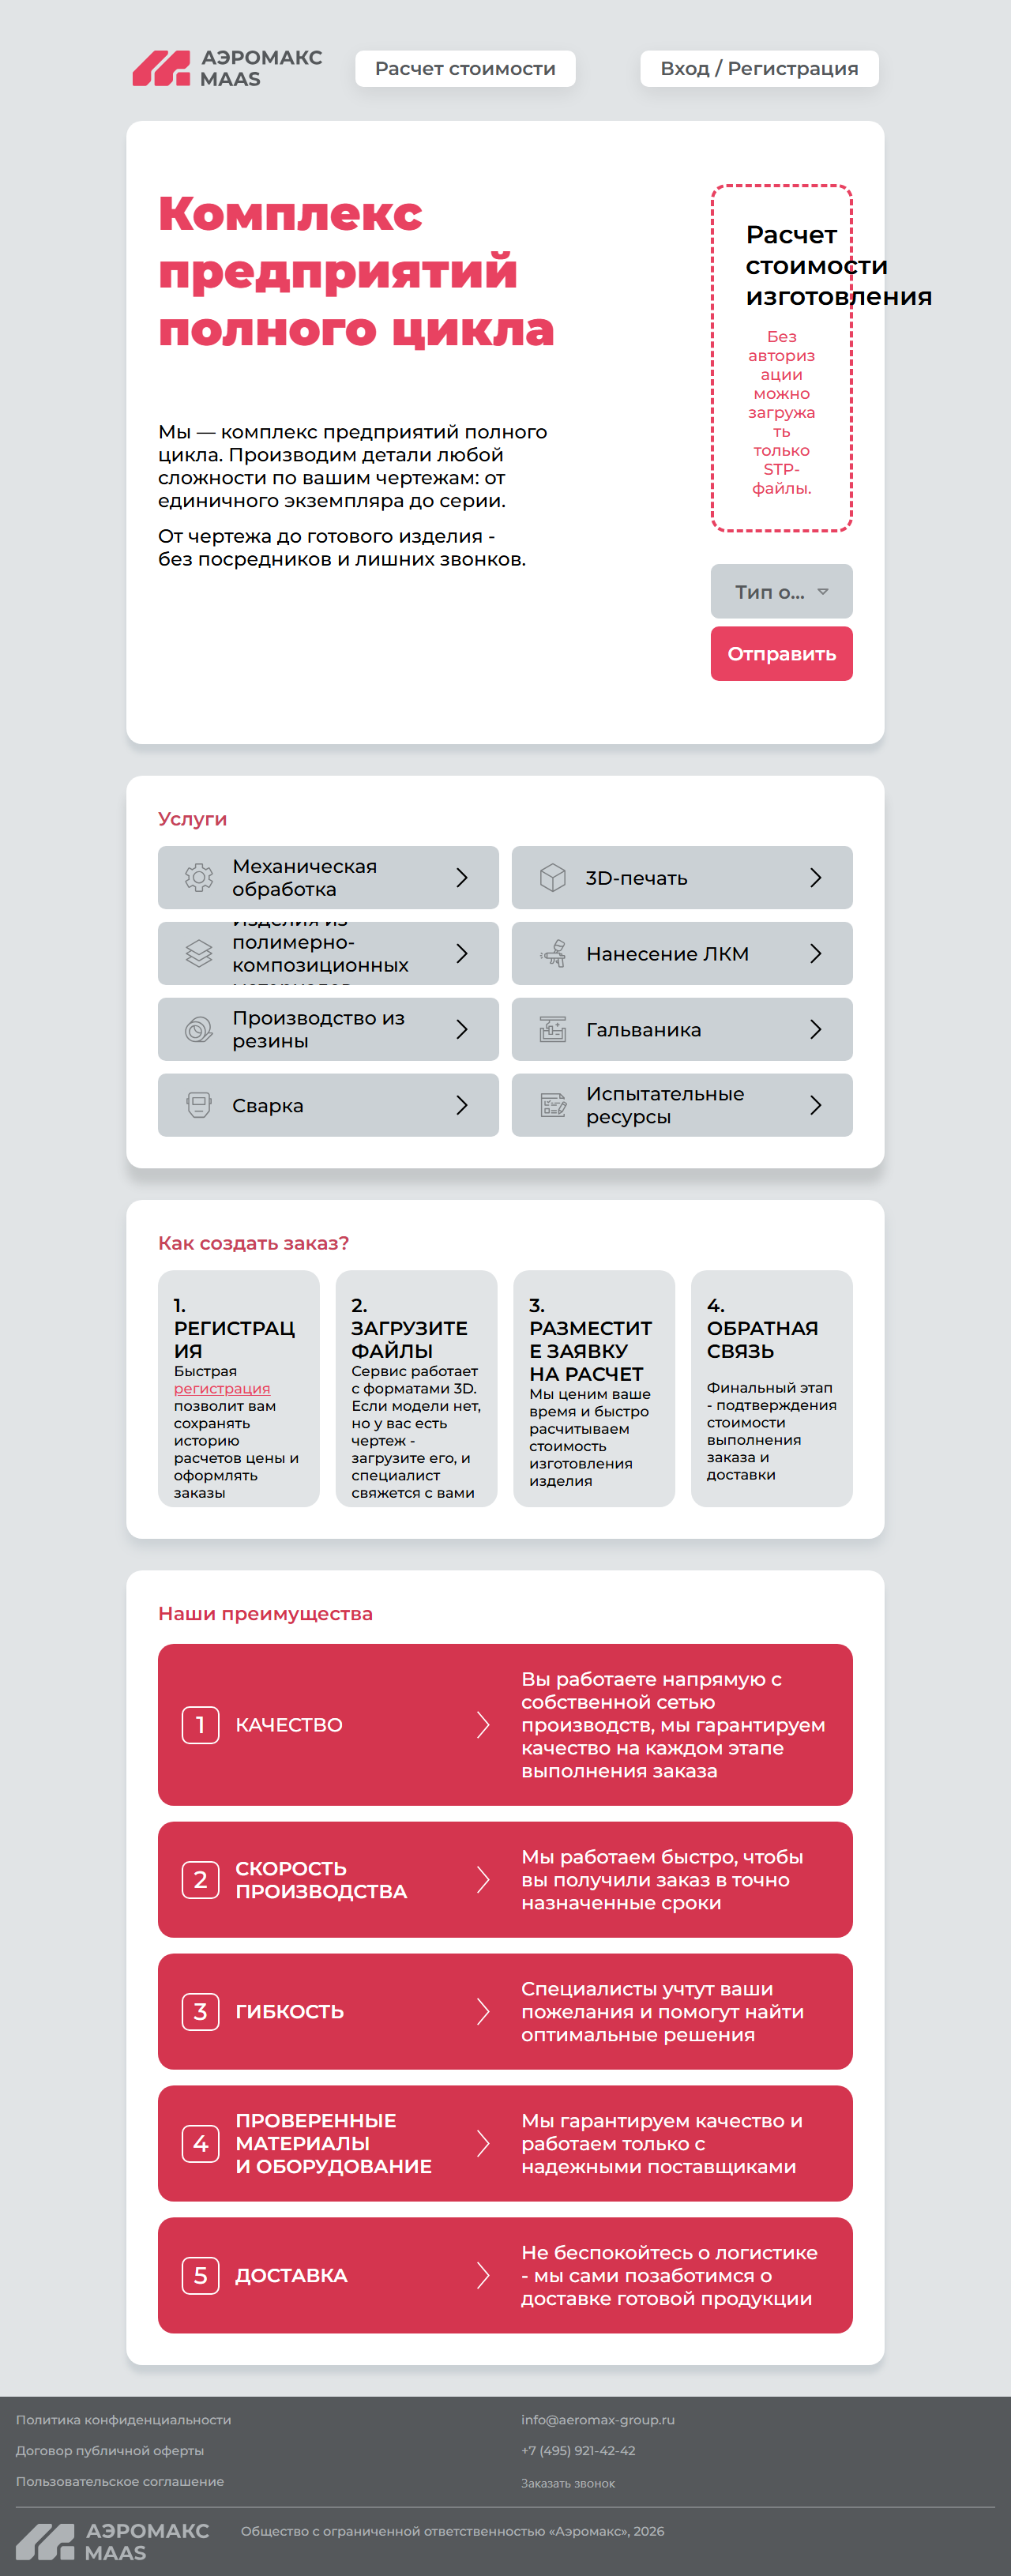
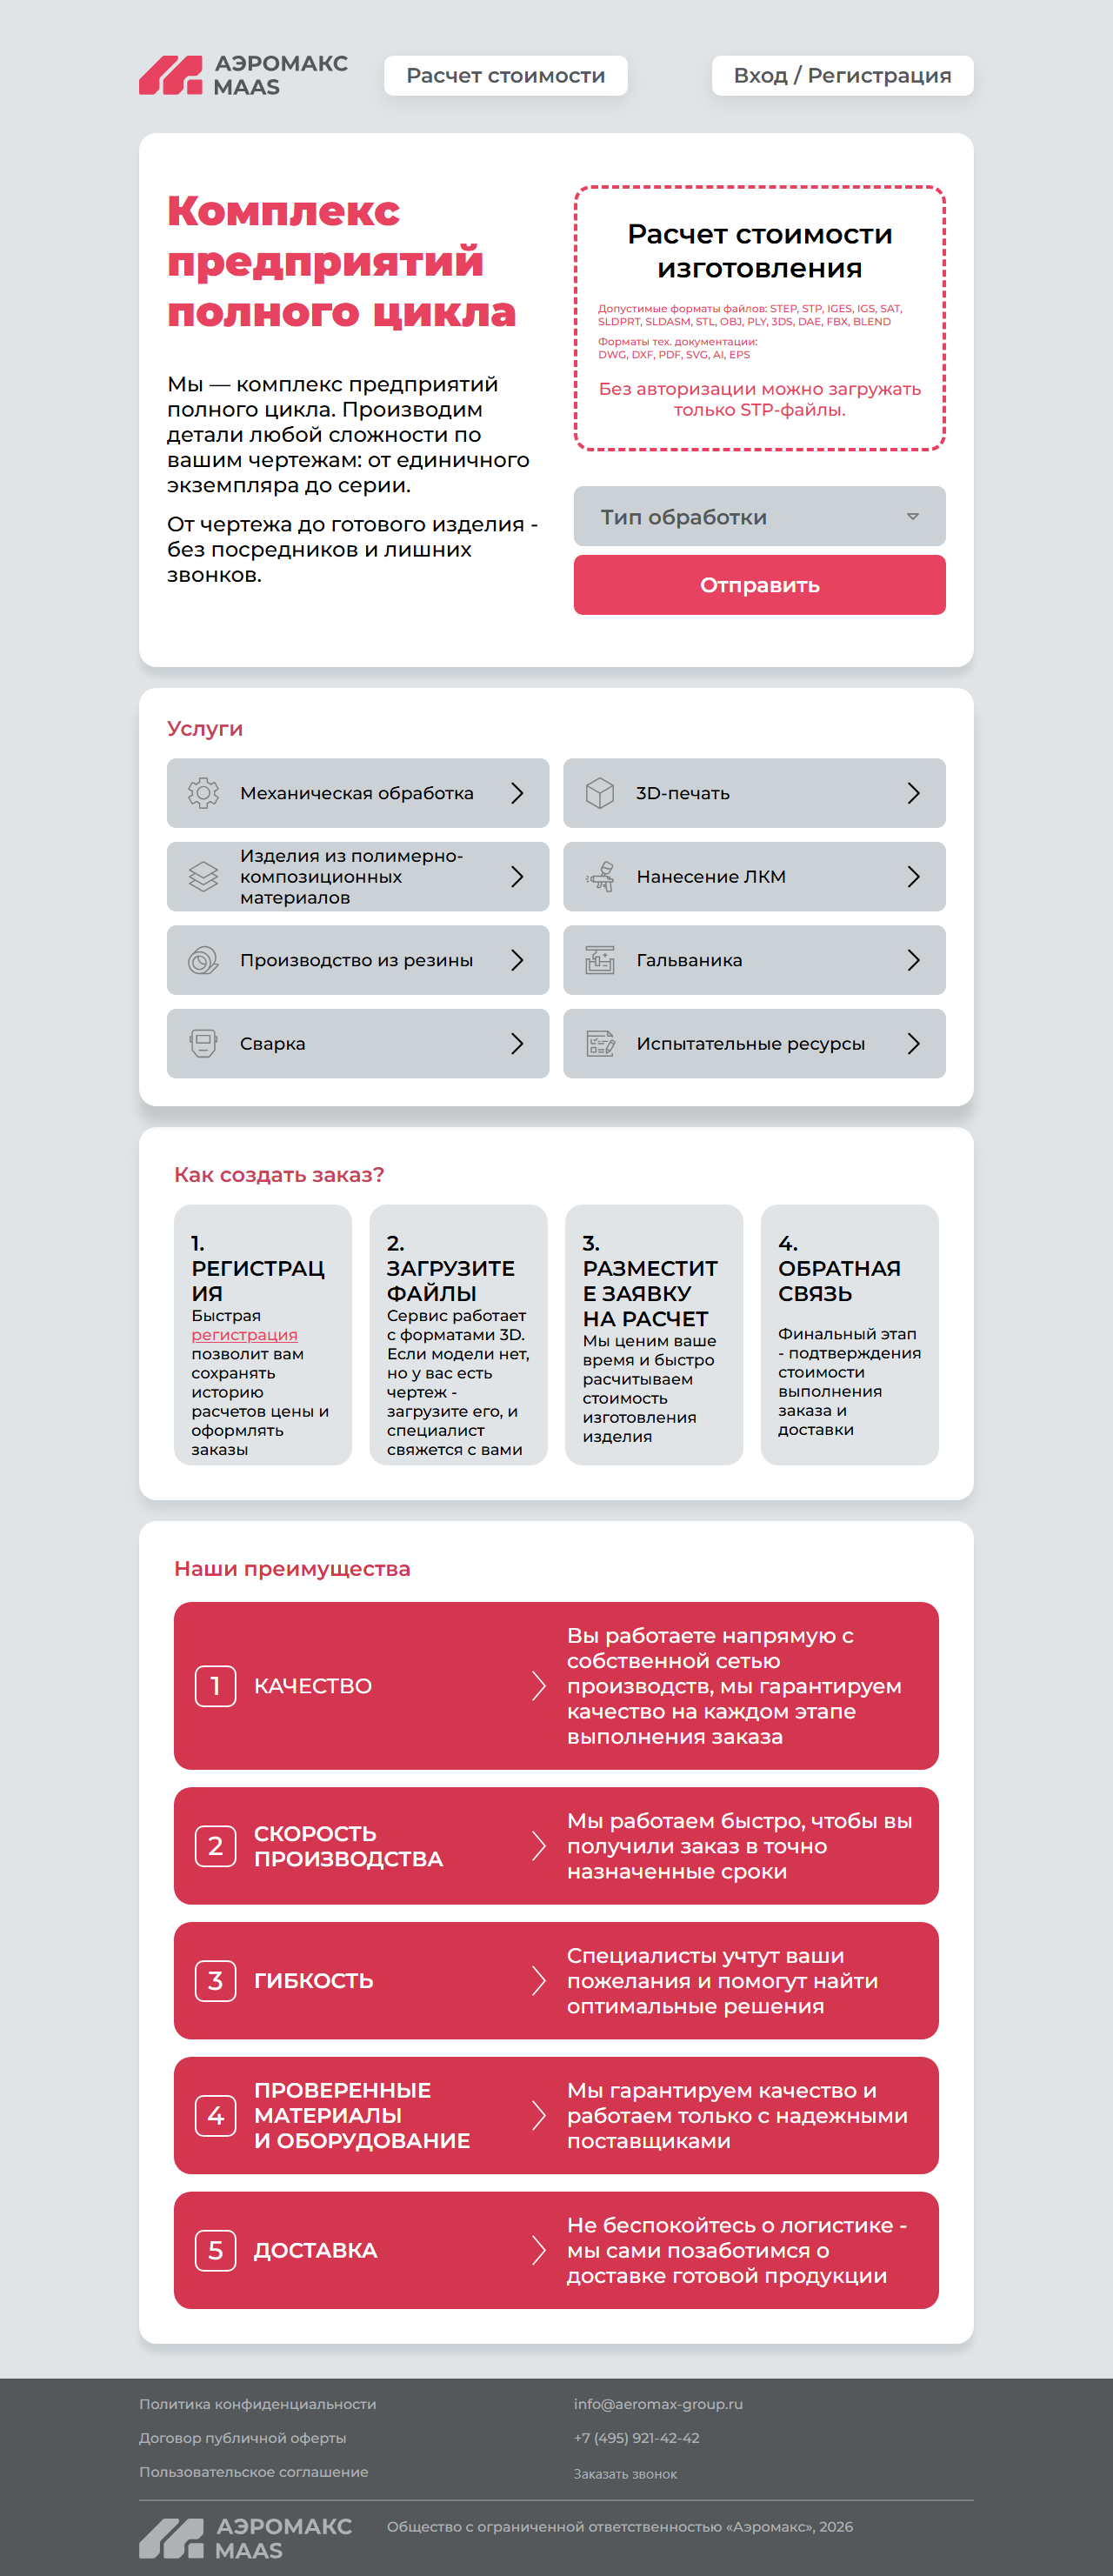
Update build-info.json and enhance responsiveness in Home components
- Updated buildDate to "2026-06-26T11:34:01.613Z" and gitHash to "ac23a50" for accurate version tracking.
- Added media queries in HomeAdvantages.vue, HomeCalc.vue, HomeUslugi.vue, and HomePage.vue to improve layout and spacing for tablet screens (769px to 1620px).
- Adjusted CSS styles to ensure better visual organization and usability across different screen sizes.

These changes enhance versioning accuracy and improve the user experience on tablet devices.

Changed region(s): [[0.0, 0.0, 1.0, 0.9939]]

diff --git a/src/components/sections/HomeCalc.vue b/src/components/sections/HomeCalc.vue
@@ -421,6 +421,45 @@ const submit = () => {
   transform: rotate(45deg);
 }
 
+@media (max-width: 1620px) and (min-width: 769px) {
+  .calc-section.section-basic {
+    padding: 60px 32px;
+  }
+
+  .calc-wrap {
+    gap: 40px;
+  }
+
+  .calc-left {
+    flex: 1 1 0;
+    min-width: 0;
+    max-width: none;
+    gap: 40px;
+  }
+
+  .calc-title {
+    max-width: none;
+    font-size: 48px;
+  }
+
+  .calc-description {
+    max-width: none;
+  }
+
+  .calc-formats {
+    display: flex;
+    flex-direction: column;
+    gap: 8px;
+    align-items: flex-start;
+    width: 100%;
+    text-align: left;
+  }
+
+  .calc-upload-zone {
+    padding: 32px 24px;
+  }
+}
+
 @media (max-width: 768px) {
   .calc-section.section-basic {
     margin-bottom: 0;

diff --git a/src/components/sections/HomeAdvantages.vue b/src/components/sections/HomeAdvantages.vue
@@ -339,6 +339,26 @@ const advantages = ref([
 
 
 
+@media (max-width: 1620px) and (min-width: 769px) {
+
+  .item-row {
+
+    gap: 24px;
+
+  }
+
+
+
+  .item {
+
+    padding: 24px;
+
+  }
+
+}
+
+
+
 @media (max-width: 767px) {
 
   .home-advantages {

diff --git a/src/components/sections/HomeUslugi.vue b/src/components/sections/HomeUslugi.vue
@@ -221,6 +221,22 @@ const isCardRouterLink = (ability: (typeof abilities.value)[number]) => Boolean(
   display: block;
 }
 
+@media (max-width: 1620px) and (min-width: 769px) {
+  .uslugi-section2.section-basic {
+    margin-top: 0;
+    margin-bottom: 40px;
+    padding: 32px;
+  }
+
+  .card-link {
+    padding: 0 20px;
+  }
+
+  .card-title {
+    font-size: 20px;
+  }
+}
+
 @media (max-width: 768px) {
   .uslugi-section2.section-basic {
     margin-top: 0;

diff --git a/src/pages/HomePage.vue b/src/pages/HomePage.vue
@@ -13,6 +13,7 @@ const HomeMilestones = defineAsyncComponent(
 
 const { width } = useWindowSize()
 const isMobile = computed(() => width.value < 768)
+const isTablet = computed(() => width.value >= 768 && width.value <= 1620)
 const showHomeCalc = ref(true)
 
 const coefficientsStore = useCoefficientsStore()
@@ -24,7 +25,10 @@ onMounted(() => {
 
 <template>
   <!-- https://www.figma.com/design/HyoggbbVUgCqJp5UR7EU8T/MaaS-DEV--Copy-?node-id=3248-1490 -->
-  <div class="home-page" :class="{ 'home-page--mobile': isMobile }">
+  <div
+    class="home-page"
+    :class="{ 'home-page--mobile': isMobile, 'home-page--tablet': isTablet }"
+  >
     <el-row :gutter="0">
       <el-col :offset="isMobile ? 0 : 3" :span="isMobile ? 24 : 18">
         <div class="home-page__sections">
@@ -42,6 +46,8 @@ onMounted(() => {
 .home-page {
   background-color: var(--bgcolor);
   box-sizing: border-box;
+  min-width: 0;
+  overflow-x: clip;
 }
 
 .home-page__sections {
@@ -52,6 +58,11 @@ onMounted(() => {
   z-index: 2;
   padding-top: 40px;
   padding-bottom: 40px;
+  min-width: 0;
+}
+
+.home-page--tablet .home-page__sections {
+  gap: 24px;
 }
 
 .home-page__sections :deep(.calc-section),